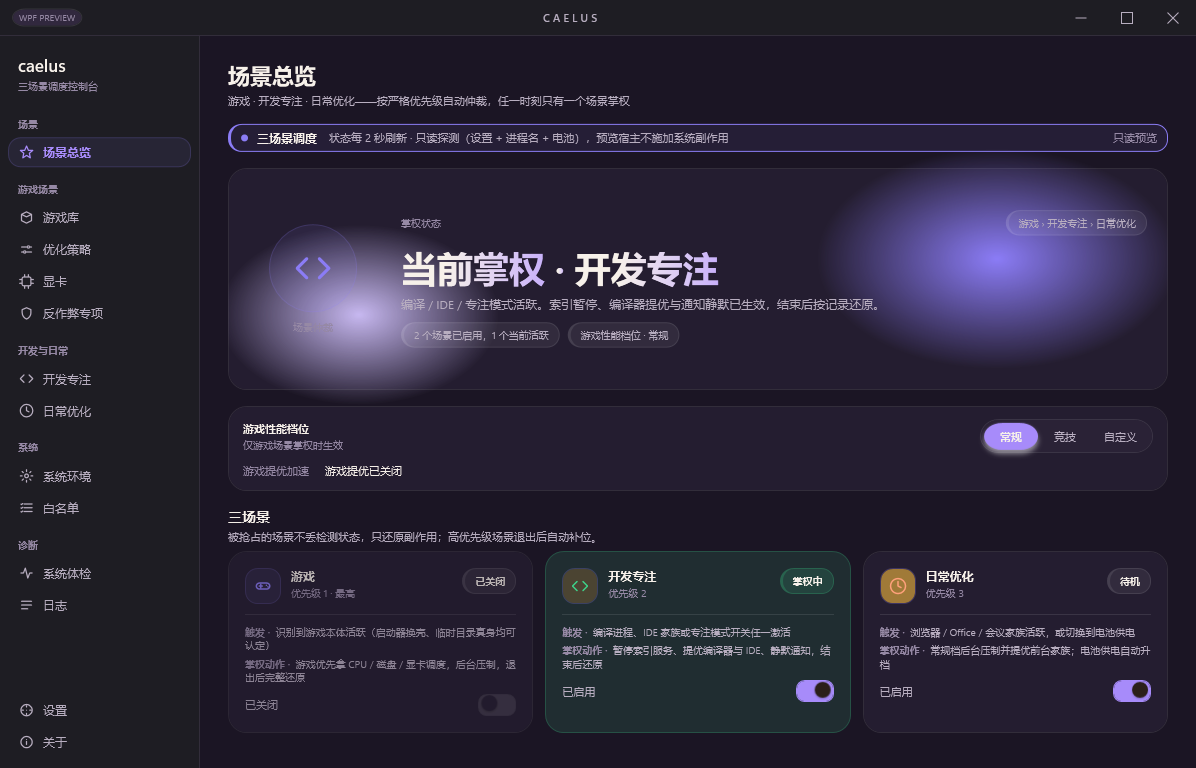
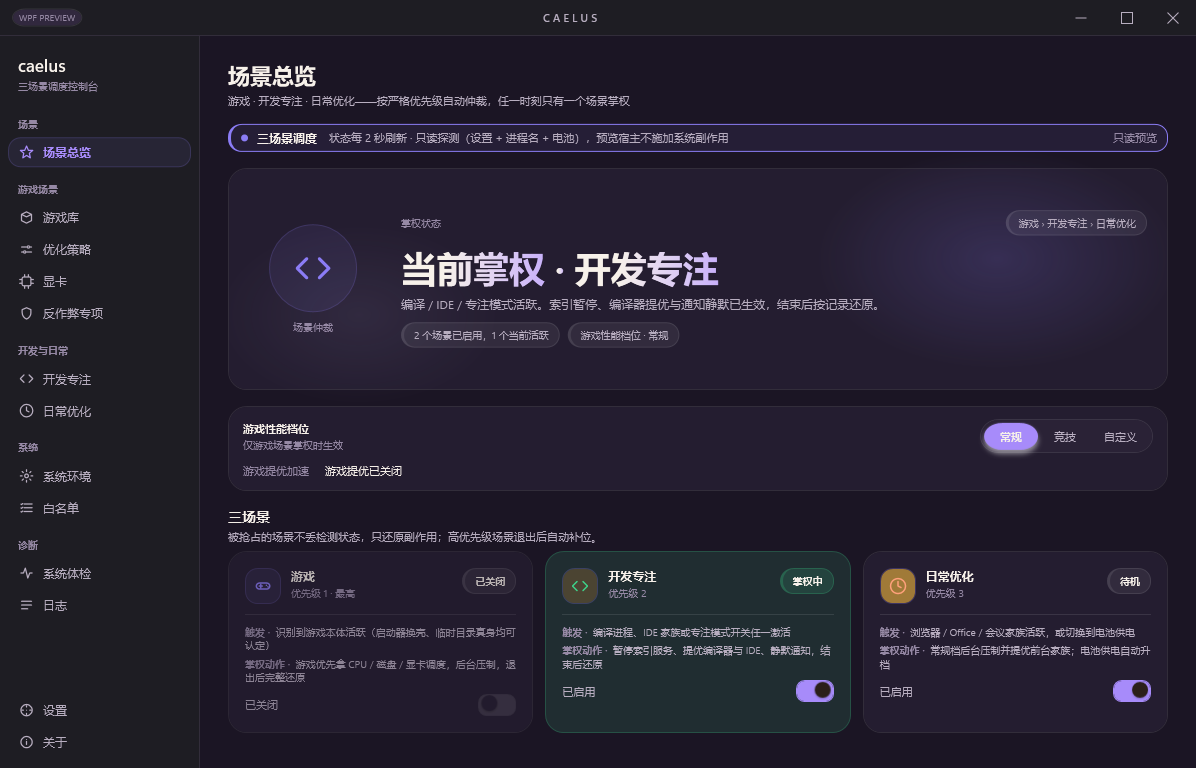
fix(ui): 夜空烟花光晕强度对齐沙盒定稿 + 高对比度覆盖层补新键 + 断言与引用加固

Changed region(s): [[0.6806, 0.1875, 0.959, 0.4688], [0.1856, 0.3125, 0.4022, 0.5312]]

diff --git a/wpf/Views/OverviewView.xaml b/wpf/Views/OverviewView.xaml
@@ -111,12 +111,15 @@
             <ColumnDefinition Width="*"/>
           </Grid.ColumnDefinitions>
 
-          <!-- 夜空烟花：双径向光晕随模式换槽（Aurora 色本就按模式轴变化）。
+          <!-- 夜空烟花：双径向光晕随模式换槽（Aurora 色与 Opacity 令牌按模式轴自适应；
+               高对比度下 Aurora*Opacity 被覆盖为 0，光晕自动隐去）。
+               尺寸/负偏移是沙盒 300px/240px 圆的几何换算——圆心落在卡片角上、半出卡外。
                Radius 取 0.5（相对包围盒半宽/半高），让 alpha 恰在 Border 边界归零——
                取 0.8 时渐隐终点落在边界外，会留下 ~37% alpha 的硬截边。 -->
           <Border Grid.ColumnSpan="3" IsHitTestVisible="False"
                   HorizontalAlignment="Right" VerticalAlignment="Top"
-                  Width="360" Height="220" Margin="0,-40,-30,0">
+                  Width="360" Height="220" Margin="0,-40,-30,0"
+                  Opacity="{DynamicResource AuroraPrimaryOpacity}">
             <Border.Background>
               <RadialGradientBrush RadiusX="0.5" RadiusY="0.5">
                 <GradientStop Color="{DynamicResource AuroraPrimaryColor}" Offset="0"/>
@@ -126,7 +129,8 @@
           </Border>
           <Border Grid.ColumnSpan="3" IsHitTestVisible="False"
                   HorizontalAlignment="Left" VerticalAlignment="Bottom"
-                  Width="280" Height="180" Margin="-30,0,0,-36">
+                  Width="280" Height="180" Margin="-30,0,0,-36"
+                  Opacity="{DynamicResource AuroraTertiaryOpacity}">
             <Border.Background>
               <RadialGradientBrush RadiusX="0.5" RadiusY="0.5">
                 <GradientStop Color="{DynamicResource AuroraTertiaryColor}" Offset="0"/>

diff --git a/wpf/Themes/Colors.Dark.xaml b/wpf/Themes/Colors.Dark.xaml
@@ -50,13 +50,13 @@
   <SolidColorBrush x:Key="TextSecondaryBrush" Color="{StaticResource TextSecondaryColor}"/>
   <SolidColorBrush x:Key="TextTertiaryBrush" Color="{StaticResource TextTertiaryColor}"/>
 
-  <!-- 夜空烟花：Hero 渐变标题（奶油白 → 薰衣草紫） -->
+  <!-- 夜空烟花：Hero 渐变标题（奶油白 → 薰衣草紫；首 Stop 引用 TextPrimaryColor 保持同源） -->
   <LinearGradientBrush x:Key="HeroTitleBrush" StartPoint="0,0.5" EndPoint="1,0.5">
-    <GradientStop Color="#F7F1EA" Offset="0.3"/>
+    <GradientStop Color="{StaticResource TextPrimaryColor}" Offset="0.3"/>
     <GradientStop Color="#C8B0FA" Offset="1"/>
   </LinearGradientBrush>
-  <!-- 场景卡图标着色：开发=成功绿、日常=蜜桃橙 -->
-  <SolidColorBrush x:Key="ScenarioDevBrush" Color="#3DD68C"/>
+  <!-- 场景卡图标着色：开发=成功绿（引用 SuccessColor）、日常=蜜桃橙（无对应 Color 资源，保持硬编码） -->
+  <SolidColorBrush x:Key="ScenarioDevBrush" Color="{StaticResource SuccessColor}"/>
   <SolidColorBrush x:Key="ScenarioDailyBrush" Color="#FFA07A"/>
   <SolidColorBrush x:Key="ScenarioDevSoftBrush" Color="#3DD68C33"/>
   <SolidColorBrush x:Key="ScenarioDailySoftBrush" Color="#FFA07A38"/>

diff --git a/wpf/Themes/Colors.Light.xaml b/wpf/Themes/Colors.Light.xaml
@@ -50,13 +50,13 @@
   <SolidColorBrush x:Key="TextSecondaryBrush" Color="{StaticResource TextSecondaryColor}"/>
   <SolidColorBrush x:Key="TextTertiaryBrush" Color="{StaticResource TextTertiaryColor}"/>
 
-  <!-- 夜空烟花：Hero 渐变标题（暖可可 → 深薰衣草） -->
+  <!-- 夜空烟花：Hero 渐变标题（暖可可 → 深薰衣草；首 Stop 引用 TextPrimaryColor 保持同源） -->
   <LinearGradientBrush x:Key="HeroTitleBrush" StartPoint="0,0.5" EndPoint="1,0.5">
-    <GradientStop Color="#2B1F1A" Offset="0.3"/>
+    <GradientStop Color="{StaticResource TextPrimaryColor}" Offset="0.3"/>
     <GradientStop Color="#6D5CE0" Offset="1"/>
   </LinearGradientBrush>
-  <!-- 场景卡图标着色：开发=成功绿、日常=蜜桃橙 -->
-  <SolidColorBrush x:Key="ScenarioDevBrush" Color="#248A3D"/>
+  <!-- 场景卡图标着色：开发=成功绿（引用 SuccessColor）、日常=蜜桃橙（无对应 Color 资源，保持硬编码） -->
+  <SolidColorBrush x:Key="ScenarioDevBrush" Color="{StaticResource SuccessColor}"/>
   <SolidColorBrush x:Key="ScenarioDailyBrush" Color="#B84518"/>
   <SolidColorBrush x:Key="ScenarioDevSoftBrush" Color="#248A3D26"/>
   <SolidColorBrush x:Key="ScenarioDailySoftBrush" Color="#B8451824"/>

diff --git a/design-sandbox/tokens.css b/design-sandbox/tokens.css
@@ -31,7 +31,7 @@
   --font-size-mono: 12px;
   --font-size-section: 22px;
   --font-size-hero: 32px;
-  --font-size-showcase: 36px;   /* 沙盒先行：夜空烟花 Hero 展示字号（待回写 Tokens.xaml） */
+  --font-size-showcase: 36px;   /* 夜空烟花 Hero 展示字号（Tokens.xaml FontSizeShowcase） */
   --font-size-metric: 24px;
 
   /* ---- 间距（Tokens.xaml） ---- */
@@ -85,7 +85,7 @@
 
   --mode-accent: var(--mode-accent-on-dark);
 
-  /* ---- 夜空烟花（2026-08-31 强化）—— 沙盒先行，待回写 Colors.Dark.xaml ---- */
+  /* ---- 夜空烟花（2026-08-31 强化）—— 与 Colors.Dark.xaml 同步 ---- */
   /* Hero 渐变标题（双色 Stop；XAML 侧是 LinearGradientBrush） */
   --hero-title-from: #F7F1EA;      /* dark: 奶油白 */
   --hero-title-to: #C8B0FA;        /* dark: 薰衣草紫 */
@@ -130,7 +130,7 @@
 
   --mode-accent: var(--mode-accent-on-light);
 
-  /* ---- 夜空烟花（浅色）—— 沙盒先行，待回写 Colors.Light.xaml ---- */
+  /* ---- 夜空烟花（浅色）—— 与 Colors.Light.xaml 同步 ---- */
   --hero-title-from: #2B1F1A;      /* light: 暖可可 */
   --hero-title-to: #6D5CE0;        /* light: 深薰衣草 */
   --scenario-dev: var(--success);

diff --git a/wpf/Themes/Tokens.xaml b/wpf/Themes/Tokens.xaml
@@ -21,8 +21,6 @@
   <sys:Double x:Key="FontSizeMono">12</sys:Double>
   <!-- 空态与拖放遮罩标题：主操作引导的醒目标题 -->
   <sys:Double x:Key="FontSizeEmpty">16</sys:Double>
-  <!-- 结论标题：概览 Hero 状态结论（游戏环境已准备好 / 优化中） -->
-  <sys:Double x:Key="FontSizeConclusion">20</sys:Double>
   <sys:Double x:Key="FontSizeSection">22</sys:Double>
   <sys:Double x:Key="FontSizeHero">32</sys:Double>
   <!-- 夜空烟花：概览 Hero 超大展示标题 -->

diff --git a/wpf/ThemeManager.cs b/wpf/ThemeManager.cs
@@ -130,6 +130,12 @@ namespace CaelusApp.WpfHost
             overlay["SegSelectedTextBrush"] = SystemColors.HighlightTextBrush;
             overlay["HeroTitleOnDarkBrush"] = SystemColors.WindowTextBrush;
             overlay["HeroTitleOnLightBrush"] = SystemColors.WindowTextBrush;
+            // 夜空烟花：HC 下渐变标题与场景着色都退回系统文字色，软色 chip 底退回系统面板色
+            overlay["HeroTitleBrush"] = SystemColors.WindowTextBrush;
+            overlay["ScenarioDevBrush"] = SystemColors.WindowTextBrush;
+            overlay["ScenarioDailyBrush"] = SystemColors.WindowTextBrush;
+            overlay["ScenarioDevSoftBrush"] = SystemColors.ControlBrush;
+            overlay["ScenarioDailySoftBrush"] = SystemColors.ControlBrush;
             overlay["AuroraPrimaryOpacity"] = 0.0;
             overlay["AuroraSecondaryOpacity"] = 0.0;
             overlay["AuroraTertiaryOpacity"] = 0.0;

diff --git a/tests/SelfTests.DesignTokens.cs b/tests/SelfTests.DesignTokens.cs
@@ -70,7 +70,12 @@ namespace CaelusApp
 
             // 5) 夜空烟花新令牌：沙盒与 XAML 双侧都存在
             Eq(true, CssVar(css, "[data-theme=\"dark\"]", "--hero-title-to") != null);
-            Eq(true, dark.Contains("HeroTitleBrush"));
+            Eq(true, dark.Contains("x:Key=\"HeroTitleBrush\""));
+            Eq(true, light.Contains("x:Key=\"HeroTitleBrush\""));
+            Eq(true, dark.Contains("x:Key=\"ScenarioDevBrush\"")
+                && dark.Contains("x:Key=\"ScenarioDailyBrush\"")
+                && dark.Contains("x:Key=\"ScenarioDevSoftBrush\"")
+                && dark.Contains("x:Key=\"ScenarioDailySoftBrush\""));
             Eq(true, CssVar(css, ":root", "--font-size-showcase") != null
                 && tokens.Contains("x:Key=\"FontSizeShowcase\">36<"));
         }
